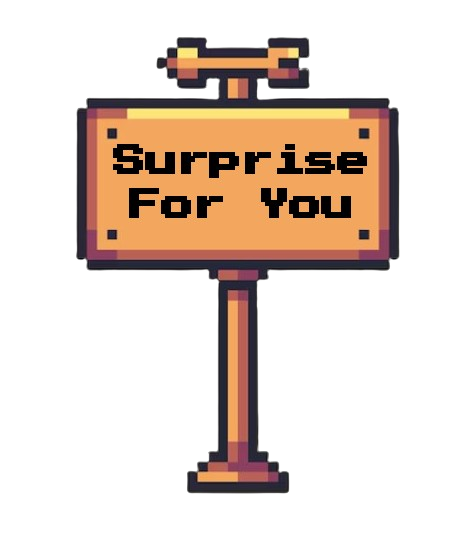
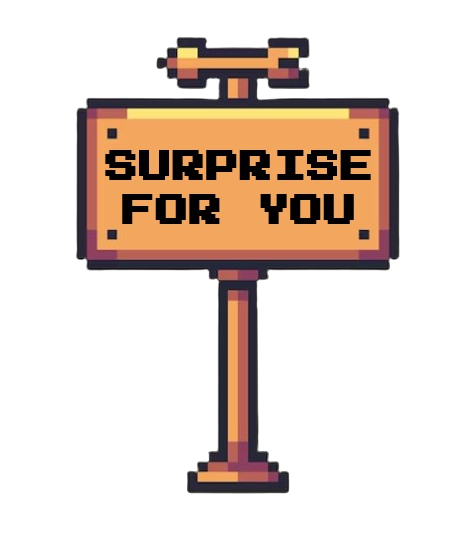
style: scale up sign graphic to improve readability of integrated text

Changed region(s): [[0.2126, 0.2667, 0.82, 0.4148]]

diff --git a/game.js b/game.js
@@ -585,7 +585,7 @@ class GameScene extends Phaser.Scene {
     // Sign Placement (to the left of the gate)
     const sign = this.add.image(W - 280, ITEM_Y, 'sign')
       .setOrigin(0.5, 1)
-      .setScale(0.18)
+      .setScale(0.26)
       .setDepth(3.2);         // Place BEHIND the grass platform
 
     // Invisible trigger zone the player walks into (just in front of the gate)
